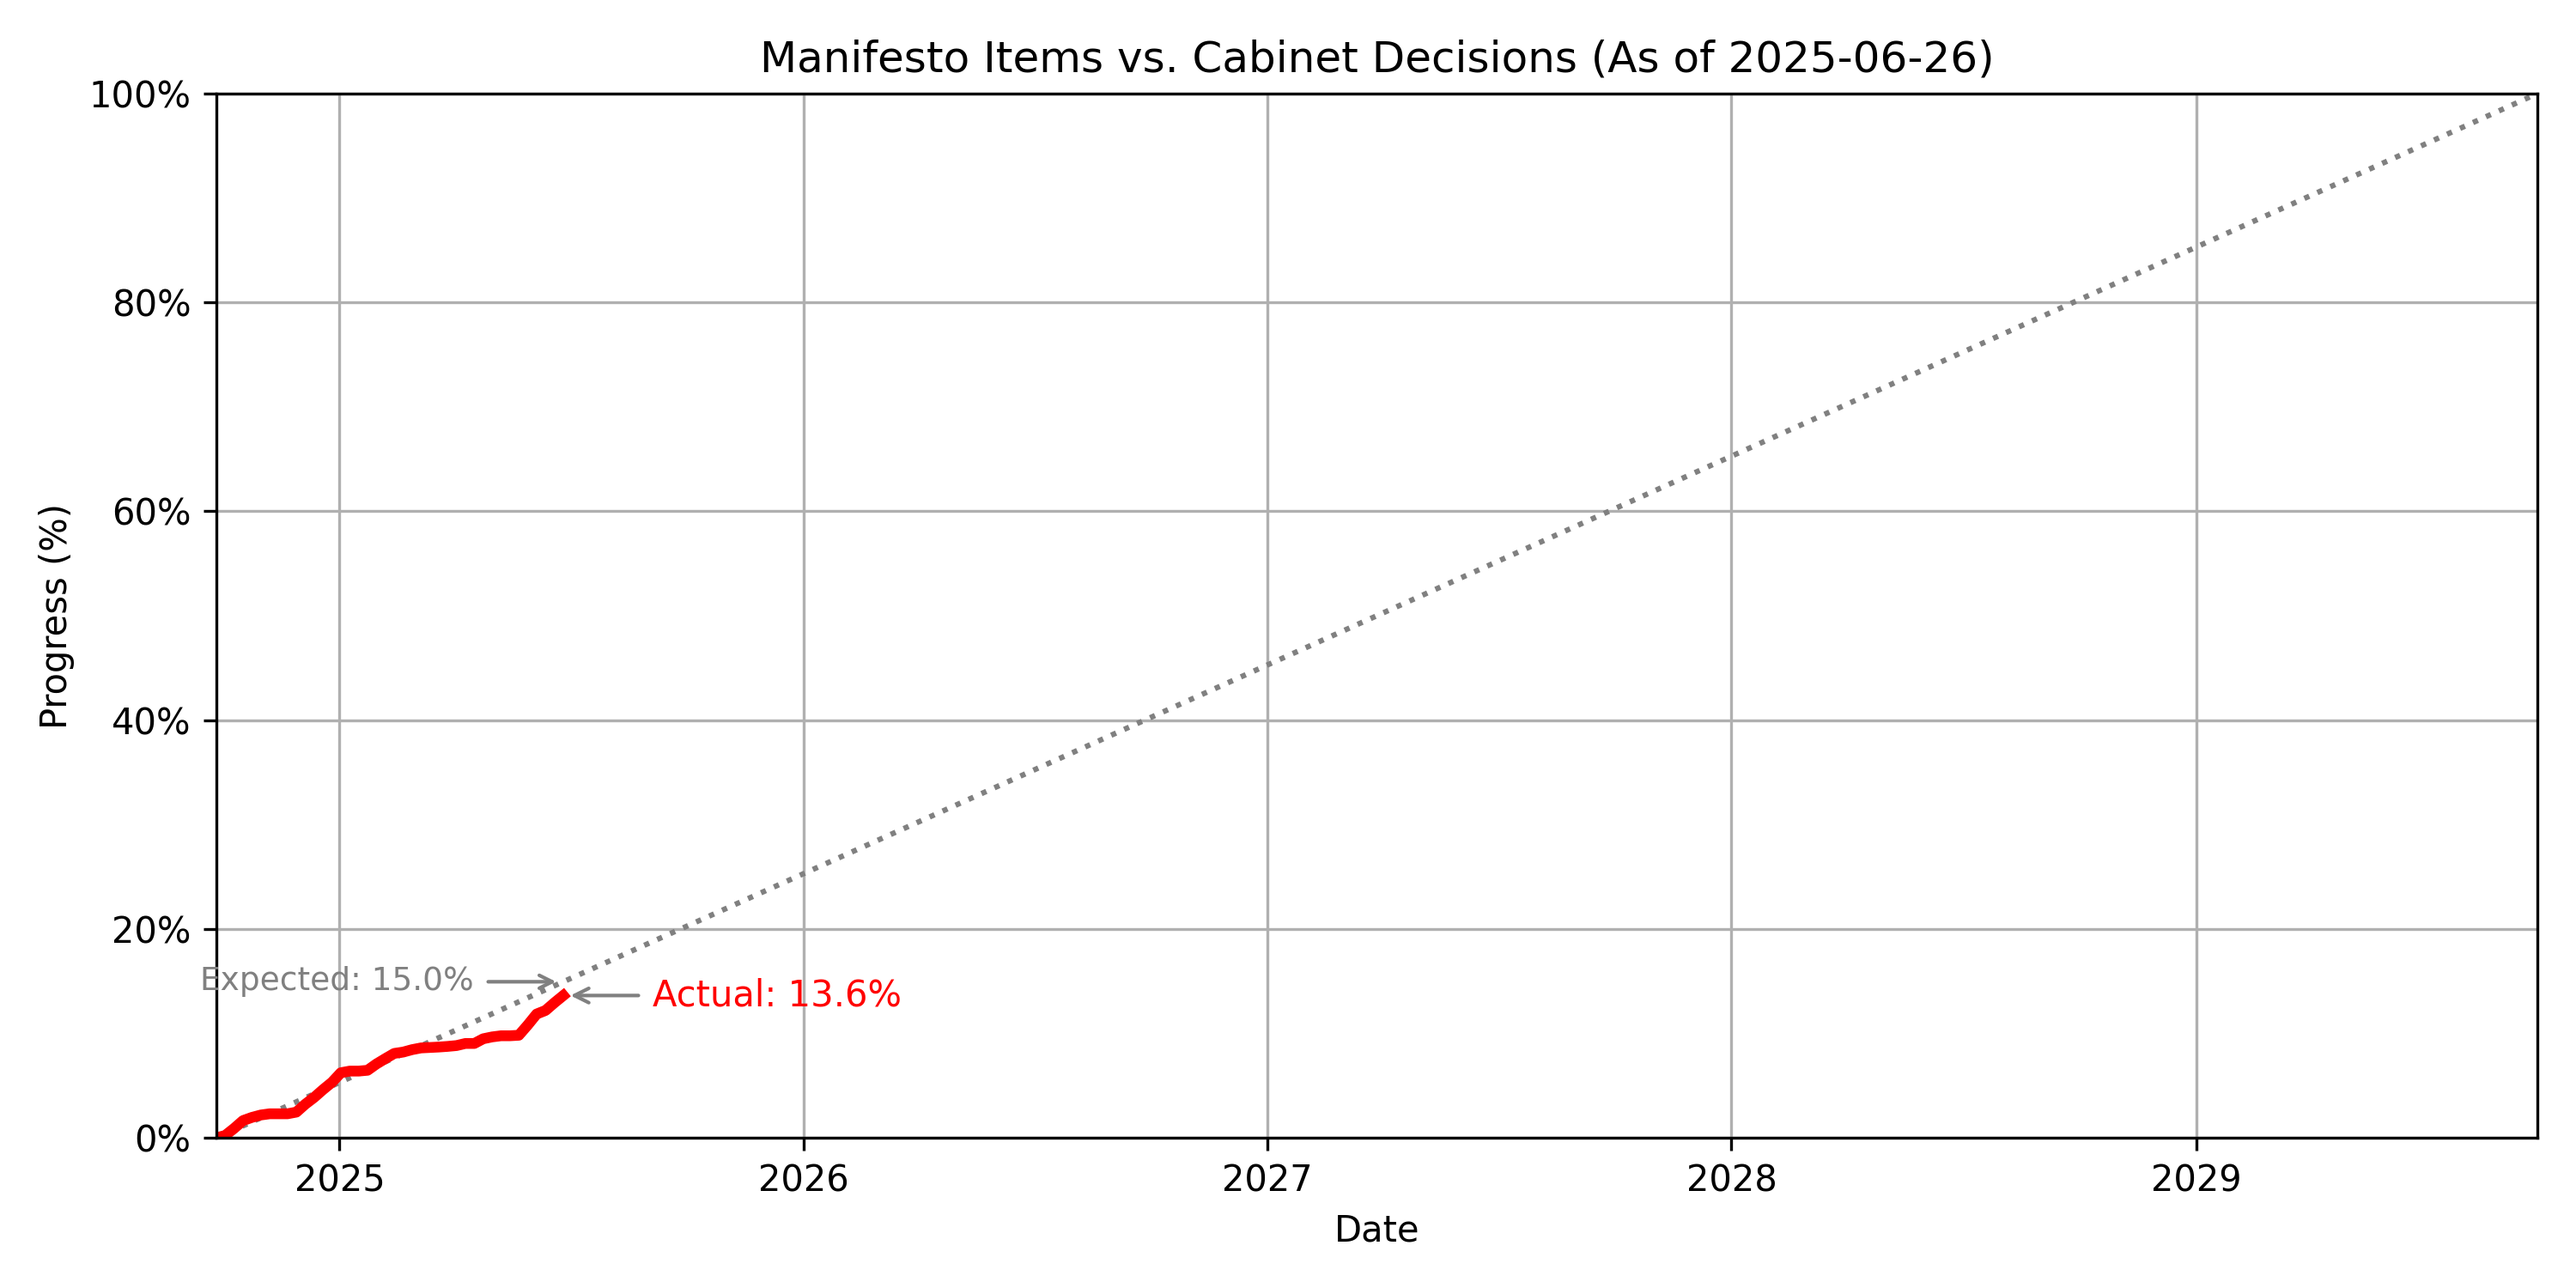
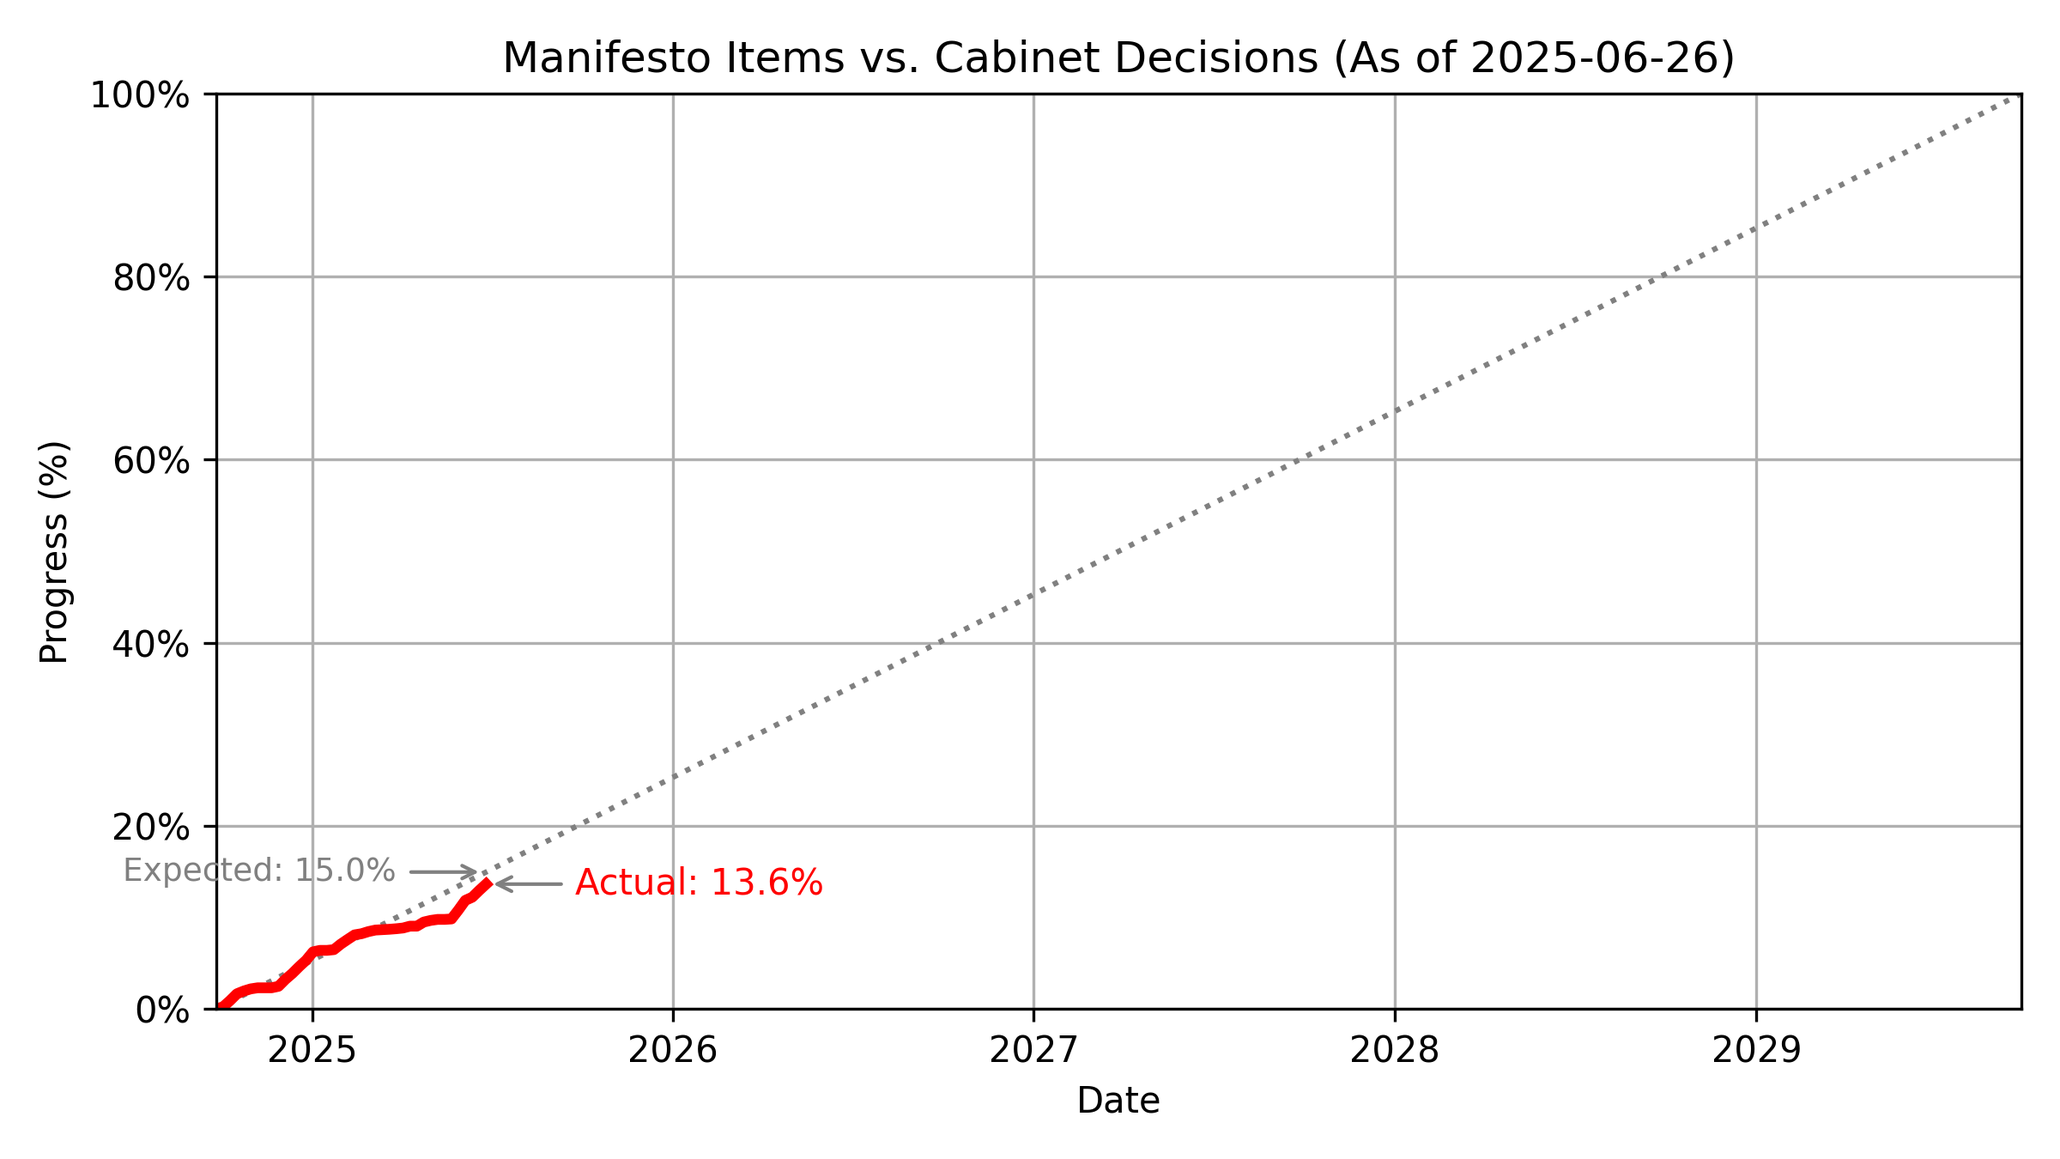
plt.figure(figsize=(8, 4.5)), removed d_list test

diff --git a/tests/test_progress_chart.py b/tests/test_progress_chart.py
@@ -1,18 +1,12 @@
 import os
 import unittest
 
-from utils import Time, TimeFormat
-
 from mm import ProgressChart
 
 TEST_PROGRESS_CHART = ProgressChart()
 
 
 class TestCase(unittest.TestCase):
-    def test_method(self):
-        d_list = TEST_PROGRESS_CHART.d_list
-        last_d = d_list[-1]
-        self.assertEqual(last_d["date"], TimeFormat.DATE.format(Time.now()))
 
     def test_draw(self):
         TEST_PROGRESS_CHART.draw()

diff --git a/src/mm/monitoring/charts/ProgressChart.py b/src/mm/monitoring/charts/ProgressChart.py
@@ -57,7 +57,7 @@ class ProgressChart:
     def draw(self):
         plt.close()
 
-        plt.figure(figsize=(10, 5))
+        plt.figure(figsize=(8, 4.5))
         plt.plot(
             [self.x_min, self.x_max], [0, 1.0], linestyle=":", color="grey"
         )

diff --git a/src/mm/monitoring/charts/HeatMap.py b/src/mm/monitoring/charts/HeatMap.py
@@ -102,6 +102,7 @@ class HeatMap:
 
     def draw(self):
         plt.close()
+        plt.figure(figsize=(8, 4.5))
         ax = plt.gca()
         self.draw_base_grid()
         self.draw_match_grid()
